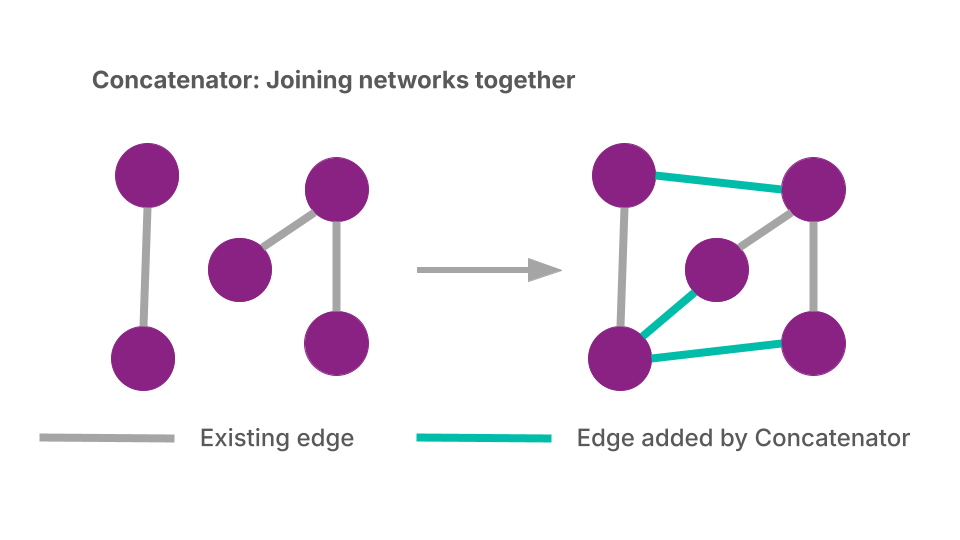
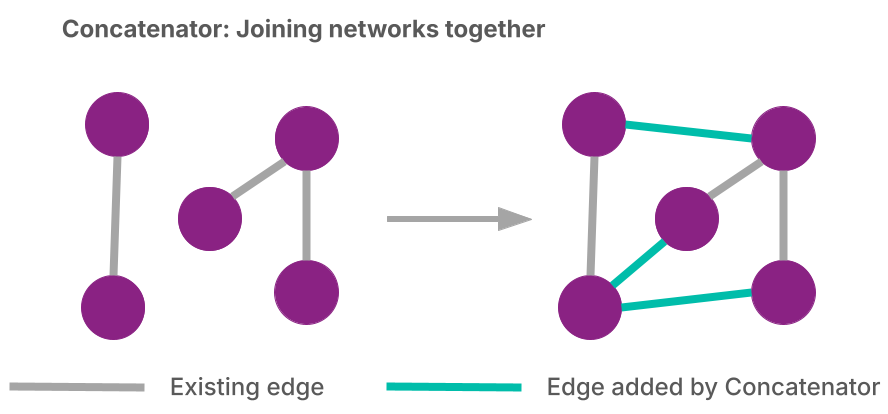
Some more updates

diff --git a/docs/guide/network_planner.rst b/docs/guide/network_planner.rst
@@ -19,6 +19,7 @@ They are usually the starting point for any network planning efforts and come in
 
 .. image:: ../_static/img/generator.png
 
+
 konnektor provides Generators across the spectrum from minimal to fully connected:
 
 - **Minimal layouts**: the Star and Minimal Spanning Tree (MST) networks use the fewest edges that still connect the set (N−1),
@@ -29,6 +30,7 @@ konnektor provides Generators across the spectrum from minimal to fully connecte
   the Heuristic Maximal Network approximates it with fewer edges.
 
 .. image:: ../_static/img/network_layouts.png
+
 
 For example, to build a minimal spanning tree network from a set of components:
 
@@ -59,6 +61,7 @@ ligands split into disconnected pieces that can no longer be ranked against one 
 A Concatenator reconnects those pieces so the whole set is comparable again.
 
 .. image:: ../_static/img/concatenator.png
+
 
 For example, to join two networks:
 

diff --git a/docs/guide/network_tools.rst b/docs/guide/network_tools.rst
@@ -1,3 +1,20 @@
 =============
 Network Tools
 =============
+Where a planner builds a network, network tools are the
+utilities *around* that step. They help you prepare, improve, and maintain free energy
+networks, acting on different objects at different points in the workflow:
+
+- :doc:`clustering`: group components by chemical similarity before planning, so you can
+  plan within groups rather than across the whole set.
+- :doc:`intermediate generation <intermediate_generators>`: when a single transformation
+  is too difficult to compute directly, insert one or more new intermediate ligands
+  between two components, splitting one hard edge into easier ones.
+- :doc:`network handling <network_handling>`: edit a network you already have.
+
+.. toctree::
+   :maxdepth: 1
+
+   clustering
+   intermediate_generators
+   network_handling

diff --git a/docs/guide/clustering.rst b/docs/guide/clustering.rst
@@ -1,6 +1,6 @@
-===============
-Node Clustering
-===============
+==========
+Clustering
+==========
 The `Clusterer` classes can be used to separate a collection of Components by a specific property into sub-groups.
 They serve as powerful tools within a workflow and enable some network generation schemes, such as the Starry Sky Network.
 

diff --git a/docs/guide/index.rst b/docs/guide/index.rst
@@ -10,5 +10,3 @@ User Guide
 
    network_planner
    network_tools
-   node_clusterer
-   edge_intermediator

diff --git a/docs/guide/network_handling.rst b/docs/guide/network_handling.rst
@@ -1,0 +1,3 @@
+================
+Network handling
+================
